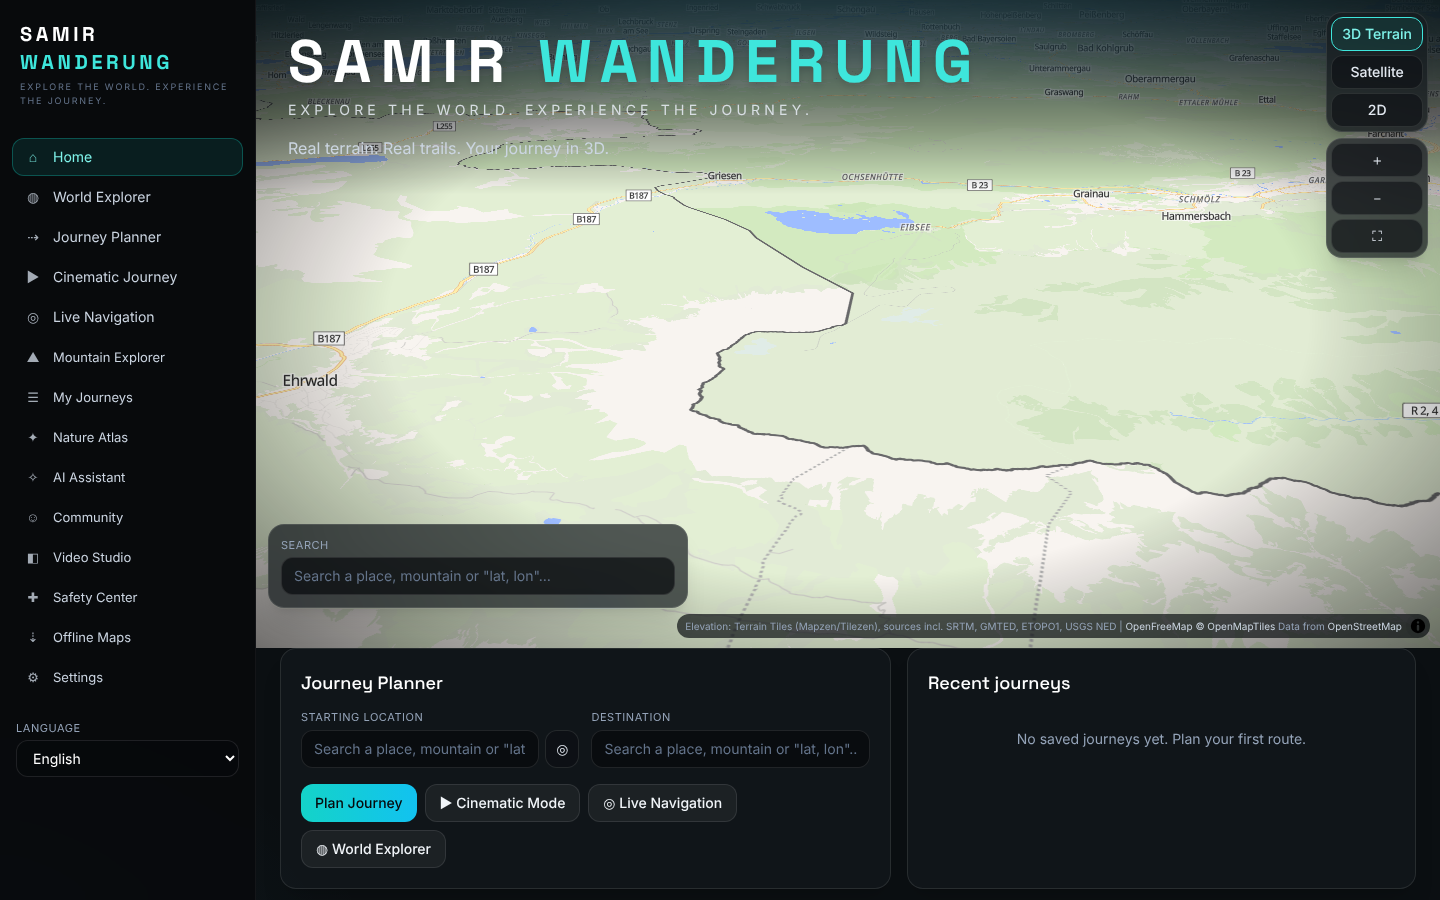
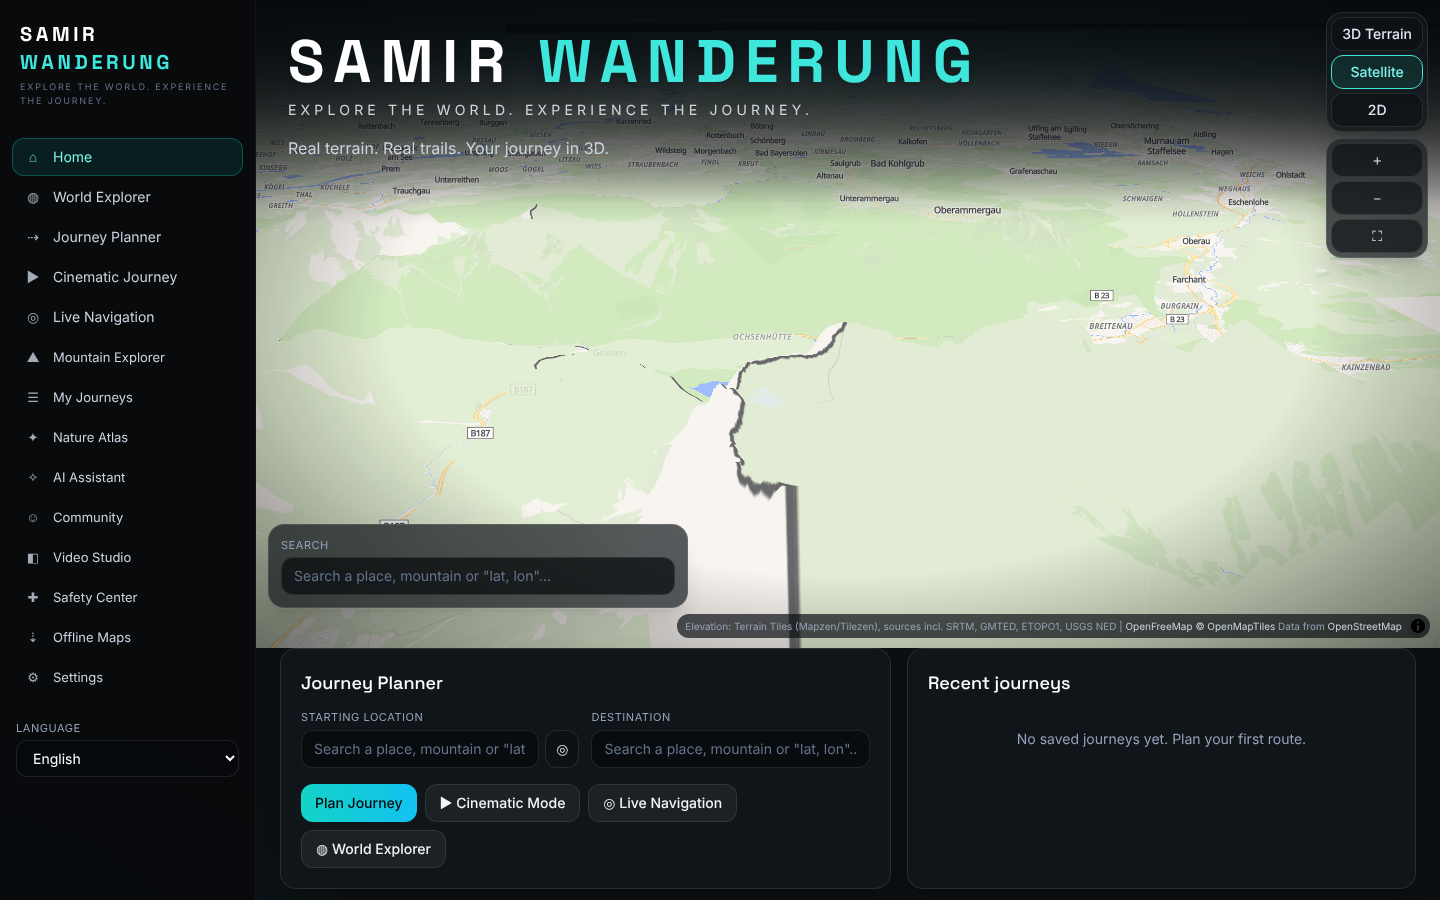
Fix mobile map height; final test report, audit, Phase 11 report
Claude-Session: https://claude.ai/code/session_0175tu5yH9F4GFQJybz5zpAY

diff --git a/samir-wanderung/src/features/Offline.tsx b/samir-wanderung/src/features/Offline.tsx
@@ -76,7 +76,7 @@ export default function Offline() {
           <p className="text-[11px] text-slate-500 mt-2">Route geometry and elevation profiles are stored locally in IndexedDB and are available offline. Offline rerouting is not available.</p>
         </Glass>
       </aside>
-      <div className="flex-1 order-1 lg:order-2 h-[50vh] lg:h-auto">{engine === undefined ? <Spinner /> : <MapView className="h-full" zoom={12} pitch={0} onReady={setEngine} />}</div>
+      <div className="lg:flex-1 shrink-0 order-1 lg:order-2 h-[50vh] lg:h-auto">{engine === undefined ? <Spinner /> : <MapView className="h-full" zoom={12} pitch={0} onReady={setEngine} />}</div>
     </div>
   );
 }

diff --git a/samir-wanderung/src/features/Planner.tsx b/samir-wanderung/src/features/Planner.tsx
@@ -200,7 +200,7 @@ export default function Planner() {
         {plan.points[0] && <WeatherPanel coord={plan.points[0].coord} hours={selected ? selected.hikingHours : 4} />}
         <Glass className="p-3"><AttributionList ids={['valhalla', 'nominatim', 'openfreemap', 'terrarium']} /></Glass>
       </aside>
-      <div className="flex-1 order-1 lg:order-2 h-[55vh] lg:h-auto">
+      <div className="lg:flex-1 shrink-0 order-1 lg:order-2 h-[55vh] lg:h-auto">
         <MapView className="h-full" center={plan.points[0]?.coord ?? [10.99, 47.43]} zoom={11} onReady={setEngine} />
       </div>
     </div>

diff --git a/samir-wanderung/src/features/LiveNavigation.tsx b/samir-wanderung/src/features/LiveNavigation.tsx
@@ -159,7 +159,7 @@ export default function LiveNavigation() {
         </Glass>
         {planned && planned.elevation.some((e) => e.h != null) && <Glass className="p-3"><ElevationProfile samples={planned.elevation} marker={deviation?.along ?? null} /></Glass>}
       </aside>
-      <div className="flex-1 order-1 lg:order-2 h-[55vh] lg:h-auto"><MapView className="h-full" onReady={setEngine} zoom={12} pitch={45} /></div>
+      <div className="lg:flex-1 shrink-0 order-1 lg:order-2 h-[55vh] lg:h-auto"><MapView className="h-full" onReady={setEngine} zoom={12} pitch={45} /></div>
     </div>
   );
 }

diff --git a/samir-wanderung/src/features/MountainExplorer.tsx b/samir-wanderung/src/features/MountainExplorer.tsx
@@ -63,7 +63,7 @@ export default function MountainExplorer() {
         )}
         <Glass className="p-3"><AttributionList ids={['overpass', 'openfreemap', 'terrarium']} /></Glass>
       </aside>
-      <div className="flex-1 order-1 lg:order-2 h-[55vh] lg:h-auto"><MapView className="h-full" center={focus?.coord ?? [7.66, 45.98]} zoom={12} pitch={65} onReady={setEngine} /></div>
+      <div className="lg:flex-1 shrink-0 order-1 lg:order-2 h-[55vh] lg:h-auto"><MapView className="h-full" center={focus?.coord ?? [7.66, 45.98]} zoom={12} pitch={65} onReady={setEngine} /></div>
     </div>
   );
 }

diff --git a/samir-wanderung/src/features/Atlas.tsx b/samir-wanderung/src/features/Atlas.tsx
@@ -124,7 +124,7 @@ export default function Atlas() {
           </>
         )}
       </aside>
-      <div className="flex-1 order-1 lg:order-2 h-[50vh] lg:h-auto"><MapView className="h-full" center={[12, 46]} zoom={3.2} pitch={0} mode="flat" onReady={setEngine} /></div>
+      <div className="lg:flex-1 shrink-0 order-1 lg:order-2 h-[50vh] lg:h-auto"><MapView className="h-full" center={[12, 46]} zoom={3.2} pitch={0} mode="flat" onReady={setEngine} /></div>
     </div>
   );
 }

diff --git a/samir-wanderung/docs/TEST_REPORT.md b/samir-wanderung/docs/TEST_REPORT.md
@@ -1,0 +1,73 @@
+# SAMIR WANDERUNG — Test Report (2026-11-28)
+
+Environment: Linux container, Node 22.23, Chromium (Playwright) with **software WebGL (SwiftShader), no GPU**,
+network through an egress proxy. Every result below was produced by actually running the tests. Nothing is
+estimated.
+
+## 1. Static checks & build
+| Check | Command | Result |
+|---|---|---|
+| TypeScript (strict, no unused) | `npm run typecheck` | **PASS** (0 errors) |
+| Production build + PWA service worker | `npm run build` | **PASS** (precache 33 entries; Cesium copied as static assets and lazy-loaded) |
+
+## 2. Unit & integration tests (vitest) — `npm test`
+**51 tests, 51 passed** in the final runs. Breakdown:
+
+| Suite | Tests | Covers |
+|---|---|---|
+| `tests/unit.test.ts` | 25 | haversine, polyline6 encode/decode (incl. Google reference vector), interpolation along the polyline (not a straight line), slicing, distance-to-line, coordinate parsing, resampling; DIN 33466 time; elevation stats with hysteresis and unknowns; difficulty; Valhalla costing mapping; round trip; timeline determinism, monotonicity, scene order, constant speed, inverse; playback (play, pause, seek, speed, end, restart) on a fake clock; GPX round trip and invalid input; GPS engine (jitter/accuracy filter, pause/resume, unavailable); slippy tile math (cross-checked with an independent Python computation); region size; emergency numbers; packing rules; i18n coverage and fallback; video project scenes |
+| `tests/server.test.ts` | 19 | **Server-side permission enforcement** on an in-memory SQLite: registration validation, age gate (13+), hidden email, private minors, follow/unfollow, post visibility (public/followers/private) per viewer, comments, reactions, bookmarks, comment removal by post author, GPS route consent and endpoint trimming, blocking, reporting, admin-only reports, events (join request, accept, capacity, participants-only list, adults-only, minors cannot organise, leave, cancel), live location (consent required, participants only, organizer-only view, revocation, no positions on the community map), private groups (invite required, roles, removal), notifications and preferences, media magic-byte check, rate limiting, auth required |
+| `tests/providers.test.ts` | 7 | **Live providers:** Nominatim (Zugspitze coordinates), Valhalla route Eibsee → Zugspitze (length vs summary, longer than the straight line), Valhalla `/height` (min < 1100 m, max > 2700 m), surfaces, multi-leg round trip, input validation, an unroutable request returns `no_route`, Wikidata lakes in Germany (incl. Bodensee), all 75 country Q-IDs match their Wikidata labels |
+
+Flakiness observed: the two Wikidata tests failed once (WDQS 502/timeout) and passed on re-run. The public
+query service is shared and rate-limited.
+
+## 3. End-to-end tests (real Chromium + real providers) — `npm run e2e`
+All stages passed in their final runs (`tests/e2e/e2e.mjs`). Screenshots are in `docs/screenshots/`.
+
+| Stage | Tests | Result | Key evidence |
+|---|---|---|---|
+| core | 17 | 17/17 | brand and tagline; map initialises with real tiles; navigation to all 13 other modules; language switch EN→AR (`dir=rtl`)→DE→KU→EN; no runtime errors |
+| planner | 4 | 4/4 | **Real route Eibsee → Zugspitze: 15.84 km, ascent 2294 m** (mountain type); intermediate stop Knorrhütte recalculates (30.72 km, 3 markers); elevation profile; save journey; mid-Atlantic points → "No hiking route found" and no route details |
+| cinematic | 4 | 4/4 | "CINEMATIC SIMULATION" label; hiker advances; **hiker position 0.08–0.26 m from the route polyline**; pause holds position; speeds 0.5×/2×/4×/1×; Follow/Aerial/Free; scrub to 50 % time → 48 % distance; arrival scene; restart → 0 %; hiker marker and loops removed on leaving the page |
+| world | 1 | 1/1 | Cesium globe canvas; search "Matterhorn" → flight → MapLibre DEM terrain; return to globe closes the terrain view |
+| atlas | 1 | 1/1 (failed once on a 90 s timeout before the seed cache existed) | 30 real Wikidata destinations; detail page with Wikidata source link |
+| live | 1 | 1/1 | Tracking, **off-route warning**, GPX export. ⚠ Positions were **emulated by the test browser** (Playwright `setGeolocation`); this is not a real-device GPS test |
+| community | 1 | 1/1 | register, log in, publish a post, create an event via geocoded meeting point |
+| studio | 1 | 1/1 | **Real MP4 exported and validated with ffprobe + full ffmpeg decode:** H.264 High, 1920×1080, 30 fps, 465 frames, 15.52 s, Opus 48 kHz stereo, 12.06 MB, ISO-MP4. Sample: `docs/samples/journey-eibsee-zugspitze-1080p.mp4`, frames in `16-video-frames.png` |
+| offline | 1 | 1/1 | Downloaded a region (163 tiles, 9.7 MB, z8–14), set the browser **offline**, reloaded: **80 tile requests served from cache, 0 failed** |
+| mobile | 1 | 1/1 | 390×844: no horizontal overflow on 9 pages; map height ≥ 200 px on planner/live/atlas (a regression this check found and that is now fixed) |
+
+Bugs found by these tests and fixed: map container collapsing to 0 height (absolute + relative classes);
+map collapsing on mobile (`flex-1` in column layouts); Play clickable before the map was ready; the server
+returning `index.html` for missing assets; the atlas query paginating rows instead of items and timing out;
+`node:sqlite` stripped by the bundler; geocoder ranking infrastructure above natural features.
+
+## 4. Performance measurements (software WebGL; no GPU available)
+| Measurement | Value |
+|---|---|
+| Cinematic 3D (satellite + DEM terrain) frame rate | **≈ 1 fps** in SwiftShader. Not representative of GPU devices, which were **not tested** |
+| Video export, 1080p30, 15.5 s | about 20 min wall time in software WebGL (each map frame waits for tiles) |
+| JS heap after leaving the cinematic page | 45–212 MB across runs (tile caches; no growth trend established) |
+| Wikidata atlas live query | 1–60 s (seeded first pages: instant) |
+| Geocoding (Nominatim via server) | 0.8–1.4 s |
+
+## 5. Not tested (requires physical devices or credentials)
+| Area | Status |
+|---|---|
+| Real outdoor GPS on Android/iOS phones | **NOT TESTED** |
+| Windows desktop with a GPU; Android Chrome performance, battery, memory | **NOT TESTED** |
+| Installed PWA on Android/Windows | **NOT TESTED** (manifest and service worker build correctly) |
+| Background GPS | **Not supported** by web apps (documented) |
+| AI assistant end-to-end | **NOT TESTED**: no `ANTHROPIC_API_KEY` in the test environment. The "not configured" path was verified |
+| Weather panel with data | **PARTIAL**: Open-Meteo returned 429 from the shared test IP for most calls; the error/retry state was verified |
+| Overpass trails & peaks in the browser | **PARTIAL**: Overpass connections were dropped by the test network |
+| 60 fps export, vertical/square export | Encoder support is detected at runtime; **only 1080p30 landscape was rendered and validated** |
+| 4K export | Not offered and not claimed |
+| Screen readers | Not tested (landmarks, labels and ARIA states are implemented) |
+
+## 6. Real-device acceptance checklist (to do)
+1. Android Chrome: install PWA, plan a route, Live Navigation outdoors for 30 min (accuracy, track, off-route, wake lock, battery %), airplane mode with a downloaded region, GPX export.
+2. Windows Chrome/Edge with GPU: cinematic fps at 1×/4×, a 60-second video export at 1080p30 and 60 fps, vertical export.
+3. iPhone Safari: map, planner, RTL; note that WebCodecs export is unavailable.
+4. With `ANTHROPIC_API_KEY`: AI trip planning in all four languages; refusal and error handling.

diff --git a/samir-wanderung/docs/FINAL_PROJECT_AUDIT.md b/samir-wanderung/docs/FINAL_PROJECT_AUDIT.md
@@ -1,0 +1,77 @@
+# SAMIR WANDERUNG — Final Project Audit (2026-11-28)
+
+## Scope & history
+The repository contained no previous SAMIR WANDERUNG code: earlier phase work had been lost when its session
+restarted without committing. The project was therefore built in one pass covering Phases 1–11 in
+`samir-wanderung/`, committed incrementally to branch `ccr-ea8dcbdb-gmxjqk`. (Phase 5, live GPS, was not
+specified separately, so it was implemented from the requirements repeated in Phases 6 and 10.)
+
+## Architecture review
+- Frontend: React 18 + TypeScript (strict) + Vite + Tailwind; MapLibre GL 4 (terrain, contours); CesiumJS
+  (lazy-loaded, about 4 MB); Three.js is installed but **not used**. MapLibre's own 3D terrain and the Cesium
+  globe cover the 3D needs, so it is a candidate for removal.
+- Engines are separated from the UI (`src/engines/*`). The animation logic has no React dependency, and React
+  receives throttled 10 Hz snapshots.
+- Server: a single Node process with no framework. It proxies providers (keys and policies stay server-side),
+  runs the AI endpoint and the community API on SQLite, and serves the PWA.
+
+## Findings
+| # | Type | Finding | Status |
+|---|---|---|---|
+| 1 | Broken UI | Map containers collapsed to 0 height (class conflict; `flex-1` on mobile) | Fixed, guarded by E2E |
+| 2 | Race | Play/Restart usable before the cinematic engine was ready | Fixed |
+| 3 | Deploy | Missing `/assets/*` returned `index.html` (stale-client MIME errors) | Fixed (404) |
+| 4 | Data | Atlas SPARQL LIMIT counted rows instead of items; worldwide queries timed out | Fixed (GROUP BY; seed cache) |
+| 5 | Search quality | Infrastructure ranked above nature ("Gullfoss" → reserve, "Titicaca" → boundary) | Improved ranking; residual misses documented |
+| 6 | Build | Cesium's dependency `@zip.js/zip.js` resolved to an incompatible version | Pinned via npm `overrides` |
+| 7 | Unused | `three` dependency not used | Open (remove or use in a later phase) |
+| 8 | Duplicate | Elevation profile components / map views are shared; no duplicate modules found | — |
+| 9 | Performance | Cinematic ≈1 fps in software WebGL; GPU devices untested | Open: needs device testing |
+| 10 | Security | No secrets in the bundle (grep of `dist/` for `sk-ant-` and key assignments: no key values; only the variable name inside the translated "not configured" message); the AI key is server-only; scrypt hashing; hashed session tokens; HttpOnly/SameSite cookies; JSON-only mutations; per-IP and per-user rate limits; media magic-byte checks; access-checked media; security headers | OK |
+| 11 | Security | No CSP header set by the app (documented for the reverse proxy); no email verification or password reset; no 2FA | Open |
+| 12 | Privacy | Server logs no bodies or coordinates; live sharing is opt-in and expires; route endpoints trimmed by default; delete-all-local-data and delete-account available | OK |
+| 13 | Data integrity | Orphaned media files remain on disk after account deletion (DB rows are deleted) | Open |
+| 14 | i18n | Kurdish translation partial (falls back to English); not reviewed by native speakers (ar/ku/de) | Open |
+| 15 | Video | World-zoom scene is 2D Web Mercator, not the Cesium globe; the satellite style is not used in video exports (licensing) | Documented |
+
+## Module classification (release decision)
+| Module | Classification | Reason |
+|---|---|---|
+| Phase 1 foundation (shell, nav, design system, i18n, PWA) | **PASS** | E2E core 17/17; RTL verified |
+| Map engine (terrain, hillshade, contours, satellite) | **PASS** | real tiles verified; DEM elevations at Zugspitze |
+| Globe engine (Cesium) & globe→terrain transition | **PARTIAL** | works in automated tests; no Cesium ion terrain (no token); untested on GPU/mobile touch hardware |
+| Route engine (Valhalla) & planner | **PASS** | real routes, stops, round trip, no-route handling; alternatives depend on Valhalla |
+| Cinematic animation engine | **PASS** (functional) / **PARTIAL** (performance) | all behaviours tested; smoothness unverified on real GPUs |
+| Live GPS navigation | **PARTIAL** | code paths tested with emulated positions; **no real-device outdoor test** |
+| Offline maps | **PASS** (browser) / **PARTIAL** (devices) | network-off test served 80 tiles from cache |
+| GPX import/export | **PASS** | unit round trip + E2E export |
+| Mountain Safety Center | **PARTIAL** | checklist and emergency info work; no closure/avalanche/warning feeds |
+| Weather | **PARTIAL** | integration works; provider often rate-limited from the test IP |
+| Mountain Explorer (OSM peaks) | **PARTIAL** | Overpass unreliable from the test network |
+| Nature Atlas / Global Explorer | **PASS** with documented coverage gaps | real Wikidata data; trails and seasons partial |
+| AI assistant | **PARTIAL** | implemented; **not tested end-to-end** (no API key) |
+| Community / social | **PASS** (server rules) / **PARTIAL** (UI breadth) | 19 permission tests; UI smoke-tested; no email verification or moderation dashboard UI |
+| Journey Video Studio | **PASS** for 1080p30 landscape / **PARTIAL** otherwise | real MP4 validated; vertical/square/60 fps not rendered in tests |
+| Native Android APK / Windows installer | **NOT IMPLEMENTED** | steps in RELEASE_NOTES.md |
+| Background GPS | **NOT IMPLEMENTED** | not possible in a web app |
+| Trail closures / official warnings / avalanche data | **NOT IMPLEMENTED** | no verified feed connected; the UI says so |
+
+## Release decision
+**Not production-ready.** It is suitable as a **public beta PWA** after deployment on HTTPS with self-hosted or
+commercial routing/geocoding. Blocking items before production:
+1. Real-device GPS, offline and performance acceptance tests (TEST_REPORT §6).
+2. A production routing/geocoding provider (the public demo servers have fair-use limits).
+3. Account security: email verification, password reset, CSP.
+4. A moderation UI for reports.
+5. Native-speaker review of Arabic, German and Kurdish.
+
+## Commands
+```bash
+cd samir-wanderung
+npm install
+npm run typecheck && npm test        # static + unit/server/provider tests
+npm run build                        # production build (dist/)
+npm run server                       # dev API (:8787)   + npm run dev (:5173)
+npm start                            # production (serves dist + API on :8787, HTTPS proxy in front)
+node server/index.mjs & npm run e2e  # end-to-end (local HTTP)
+```

diff --git a/samir-wanderung/docs/PHASE_11_RELEASE_REPORT.md b/samir-wanderung/docs/PHASE_11_RELEASE_REPORT.md
@@ -1,0 +1,34 @@
+# Phase 11 — Global Hiking Explorer: Release Report
+
+## Implemented
+Globe exploration (Cesium) with continents, search, picking, eased flight and hand-off to 3D DEM terrain; satellite
+and terrain views; return to globe. Also: the World Nature Atlas over 10 Wikidata categories with continent and
+country filters, clustering and destination detail pages (sources, photos with attribution, official website,
+elevation, coordinates), nearby OSM hiking relations, seasonal guidance (clearly labelled general), weather,
+saved destinations, recent searches, sharing, and community integration (public events and routes map). See
+GLOBAL_EXPLORER_REPORT.md for per-feature status.
+
+## Providers
+Wikidata (CC0), Wikimedia Commons (per-file licences), Nominatim/OSM (ODbL), Overpass/OSM, Valhalla/OSM,
+OpenFreeMap, AWS Terrain Tiles, Esri imagery, Open-Meteo. Details in GEOGRAPHIC_DATA_SOURCES.md.
+
+## Countries and regions actually tested
+Germany, Iraq, Switzerland, Norway (Atlas, country-filtered); worldwide lists for all 10 categories in en/de/ar;
+search tests for Germany, Iraq, Nepal, Erbil, Zürich, Cusco, Matterhorn, Kilimanjaro, Lake Titicaca,
+Königssee, Gullfoss, Iguazu, Black Forest, Yosemite, Berchtesgaden and Tour du Mont Blanc. Arabic and Kurdish
+queries: جبل حلكورد → Halgurd peak, أربيل / Hewlêr → Erbil. Routes were tested in the Wetterstein range
+(Bavaria/Tyrol).
+
+## Coverage limitations
+Worldwide category lists are short where few items pass the popularity threshold (glaciers 3, canyons 2).
+Trail metrics exist only for Valhalla-computed routes. No climate normals, official opening dates, closures or
+access restrictions are integrated. Search misses are documented in GLOBAL_SEARCH_TESTS.md ("Halgurd" in English,
+the alias "Monte Cervino", "Rennsteig"). **The globe shows the whole Earth, but data coverage is not worldwide or
+uniform.**
+
+## Build & tests
+Typecheck and build PASS; vitest 51/51; E2E all stages pass (TEST_REPORT.md).
+
+## Status
+Global Explorer: **PARTIAL** overall. Globe, atlas, search and detail pages pass. Trails, seasons and weather
+are partial. Official access data is not implemented.
